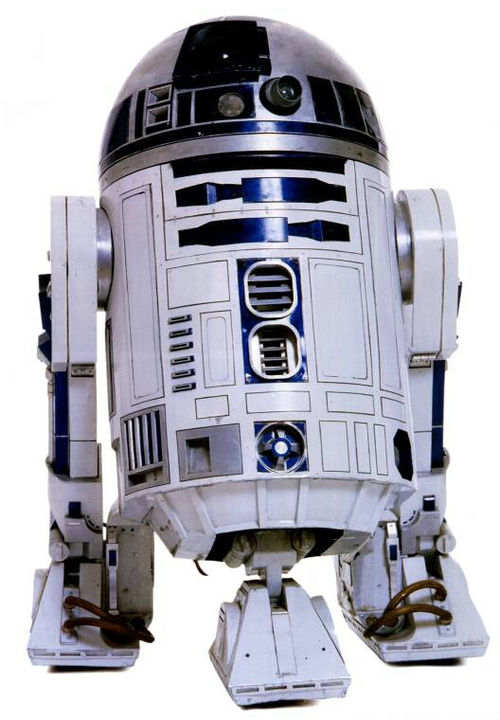
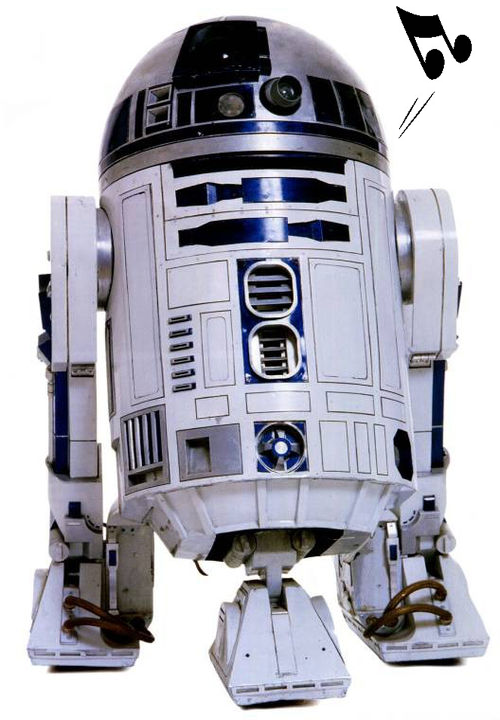
Modified images.

Changed region(s): [[0.78, 0.0, 0.96, 0.1528], [0.81, 0.1528, 0.84, 0.1833]]

diff --git a/text.md b/text.md
@@ -2,26 +2,29 @@
 layout: default
 ---
 
-[Start](index)
+[Machine Communication](index)
 
 [Project](project)
-
-In our group, we build tools and instruments for researchers who study animal
-brains.
 
 Imagine that a researcher emails you and tells you she wants to train mice to
 reach for a food pellet after they hear a sound.
 
-The researcher studies the activity in the mouse brain as the mouse is reaching.
+You do not know much about the researcher or her lab, but you know she studies
+some sort of neural activity in the mouse brain as the mouse is reaching.
 Perhaps she wants to increase the number of reaches, so she can collect more
 data in a given amount of time, by training the to mouse to perform on cue.
 
-This is a very vague project description so far, but often it is useful to
-figure out the fundamental problem of a project before diving into the details.
+This is a very vague project description so far. When I first hear about a
+project I am tempted to focus on the details and start brainstorming. Play a
+sound, how many different ways can I think of to play a sound?
 
-[Communication](communication)
+Often, though, it is useful to figure out the fundamental problem of a project,
+what the researcher is really asking you, before diving into the details of what
+they request.
 
-At heart of this project is a communication problem.
+[Communication Diagram](communication)
+
+I think that at the heart of this project is a communication problem.
 
 This figure is from Claude Shannon's wonderful paper on the mathematical theory
 of communciation.
@@ -31,12 +34,12 @@ source produces a message. The transmitter operations on that message to create
 a signal sent over a channel to the receiver. The receiver converts the signal
 back into a message and delivers it to the destination.
 
-[Brains](brains)
+[Human Brain to Mouse Brain Communication](brains)
 
 The researcher wants to send a message from her brain into the brain of the
 mouse, asking it to please reach out and grab a food pellet.
 
-[Ear](ear)
+[Ear Receiver](ear)
 
 The researcher asked you to use the mouse ear to receive messages and deliver
 them to the mouse brain.
@@ -55,8 +58,12 @@ another receiver in the future if necessary.
 
 Perhaps the most obvious way to transmit a signal from a human brain into a
 mouse ear is by using your mouth. Humans often transmit signals from their
-mouths to other human ears when they want to communicate information. Mice
-probably send each other information using their mouths and ears as well.
+mouths to other human ears when they want to communicate information.
+
+Messages are going from my brain through my mouth into your ears and to your
+brains right now.
+
+Mice probably send each other information using their mouths and ears as well.
 
 [Human and Mouse Languages](languages-human-mouse)
 
@@ -118,6 +125,9 @@ independently let Rosie send messages to the mouse automatically as well.
 So the researcher wants you to go back to the drawing board and think of another
 way to transmit sounds to the mouse.
 
+The transmitter most certainly will not look like R2D2, but for now let us use
+that as a place holder representation of whatever transmitter we end up using.
+
 [Sound is Mechanical](sound)
 
 Sound is a mechanical process of air vibrations acting on the mouse ear drum.
@@ -151,6 +161,12 @@ The researcher writes back that a bell might work, but in addition to being able
 to send signals using the bell, she also wants to be able to send messages to
 the bell in order to changes its properties.
 
+Perhaps she wants to be able to ring the bell at one frequency to tell the mouse
+that there is a food pellet ready and then ring it at another frequency after
+the mouse has successfully performed the reach or ring it at yet another
+frequency if the reach was unsuccessful. That will help her when training the
+mouse in some way.
+
 [Human and Mechanical Languages](languages-human-mechanical)
 
 How is it possible to send messages to something mechanical?
@@ -176,6 +192,21 @@ the knobs allows the human to read and adjust the value in something like
 English, while the position of the knobs communicate those values to the
 mechanical device.
 
+One of the nice things about using an intermediate language is that it hides the
+implementation details. That can free you up to change the implementation
+details later if necessary, but not have to change the language that you are
+speaking.
+
+For example, say you are using an inexpensive electric stove at home to cook
+food and you decide you want to upgrade to a fancy gas stove. The performance
+and cost and other details may change, but the "Simmer, Low, Medium, High" knob
+language will pretty much stay the same and recipes from cookbooks will work
+with either stove, perhaps with some slight adjustments for different stove
+performance. If the cookbook said send four amps through the cooking coil for 10
+minutes, then you would need to translate the cookbook for specific stoves.
+
+The details have been abstracted away by the intermediate language.
+
 [Human Knob Bell](human-knob-bell)
 
 So now we have a potential way for the human to transmit information to the
@@ -191,7 +222,38 @@ to be able to send messages to the bell automatically.
 
 Since Rosie is most likely not anything resembling humanoid, without eyes to see
 the labels or hands to turn the knobs, it would probably be very difficult for
-Rosie to use the knob language to change the bell properties.
+Rosie to use the knob language to change the bell properties. Rosie might be
+able to instead use the bell's mechanical language directly, but that might also
+be difficult.
+
+[Fly Alcohol Assay](fly-alcohol-assay)
+
+This is a fly alcohol project that some of us here worked on years ago for
+Ulrike's lab. There are six tunnels and one fly is placed into each tunnel. A
+camera looked down at the tunnels and figured out in real time the location and
+orientation of all of the flies. Three little gates in each tunnel could open
+and let the fly run freely or close and trap a fly in a section of a tunnel. We
+could then pump in odors or alcohol vapors.
+
+Right after we got it to work, the researchers moved to Brown where they ran it
+for a few years. I am not sure the researchers ever found anything of note
+scientifically using this rig, so in that sense perhaps it was not a successful
+project, but it was a pretty clever little device.
+
+We made a mistake on this rig, though, that made it difficult to use. There was
+an overly complicated mechanical linkage that controlled each gate. It worked
+well if everything was adjusted properly, but if it was a little too tight, the
+gates would jam, if it was a little too loose, the gates would fall down when
+they were supposed to be closed. Every researcher using this rig had to be
+trained how to adjust the linkage properly and do that before every experiment.
+This was very frustrating for new researchers and it made them not like using
+the rig.
+
+This was something we could have pretty easily fixed with a simpler linkage in
+another design iteration. We wanted to send two messages to the gates, open or
+close and the linkage should have been correspondingly as simple. That is
+something you have to be careful about when using a purely mechanical
+communication scheme.
 
 [Yet Another Transmitter](human-robot-transmitter)
 
@@ -245,11 +307,52 @@ transmitter, she could flip switches or turn knobs to change the frequency or
 duration of the tone.
 
 When Rosie wants to send messages to the electro-mechanical transmitter, she
-could change the value of analog voltage signal or the pulse width of a square
-wave perhaps.
+could change the value of analog voltage signal. Increasing the voltage might
+increase the tone frequency.
 
-So now we have thought of another potential solution for the researcher, but can
-we do better?
+Lots of rigs and devices in this building use variations of this analog voltage
+language. Sometimes it is unavoidable like when a sensor only outputs an analog
+voltage or some device only accepts analog input. Some people love using analog
+voltages because you can look at them on an oscilloscope and vary them by
+turning knobs.
+
+Using analog voltages to send messages, however, has a drawback of being
+susceptible to noise.
+
+[Signal Noise](signal-noise)
+
+Every signal contains some amount of noise. There are techniques for minimizing
+noise and maximizing signal, like shielding wires and using differential
+signals, but it is always going to be there to some extent.
+
+[Light Sensor](light-sensor)
+
+Here is another project that I worked on years ago that only used analog
+circuitry. It is a light sensor for detecting IR light reflecting off of fly
+wings. Researchers use it to tell how fast a fly is flying and as a way to
+detect when flying starts and stops.
+
+After a couple of iterations I got it to work well and it was used by Sung Soo
+in a rig here and by other labs in several universities.
+
+The first iteration of my design, though, I did something pretty stupid in
+retrospect. I needed a nice bandpass filter to remove noise and the large DC
+component of the signal. Ideal bandpass filters have nice sharp edges where
+everything outside the frequency range is squashed to zero and everything inside
+the range passes unchanged. Real filters are never so nice, but by adding orders
+to the filter in stages you can better approximate an ideal filter. Filters
+might reduce the signal, but by adding a gain stage afterwards you can increase
+the signal back up to where you want it.
+
+I wanted a really nice filter so I used four filter stages with an amplifier at
+the end. This worked great when I simulated the filter, but in reality, each
+stage reduced the signal more and more until it was the same magnitude as the
+noise and when I amplified it at the end the noise was amplified too and the
+resulting waveform looked horrible.
+
+I fixed the filter by putting smaller amplifiers after each stage instead of one
+big one at the end. Noise is always something you have to deal with properly in
+analog circuits to get good results.
 
 [Processor](processor)
 

diff --git a/languages-human-mouse.md b/languages-human-mouse.md
@@ -10,10 +10,6 @@ layout: presentation
 
 # [](#header-2) Mouse
 
-* Perhaps:
-
 > Ultrasonic "squeek, squeek, squeek"
 
-* Or possibly:
-
-[![](assets/img/does-not-exist.png)](language-droid)
+[![](assets/img/languages-human-mouse.png)](language-droid)
